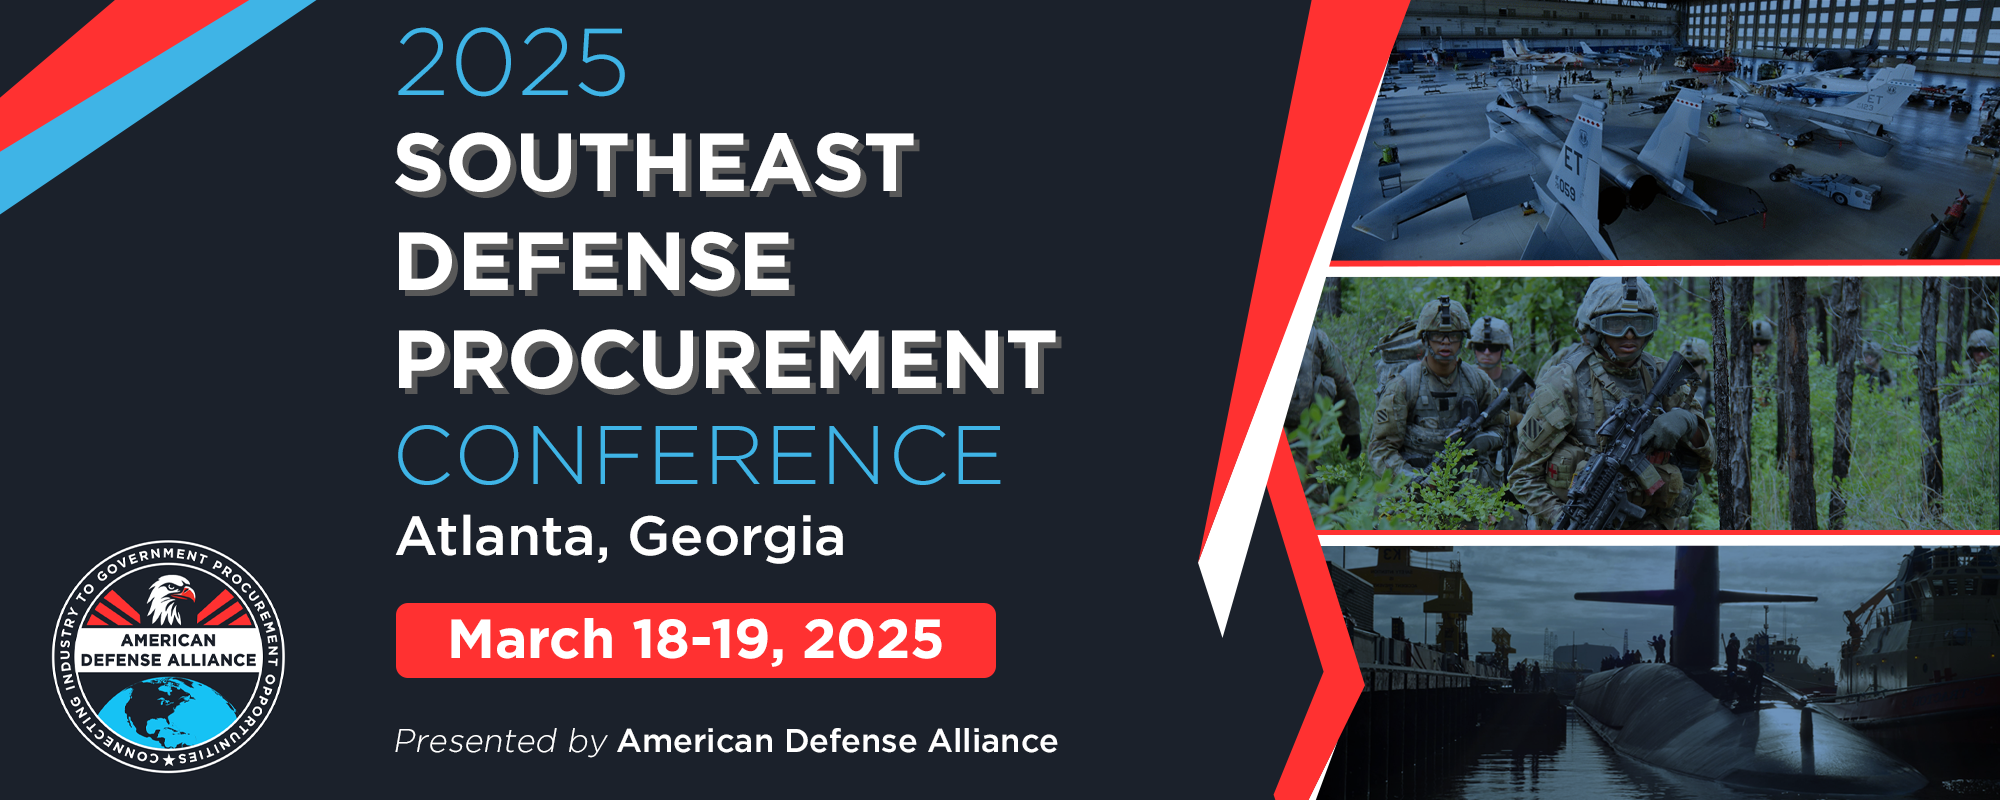
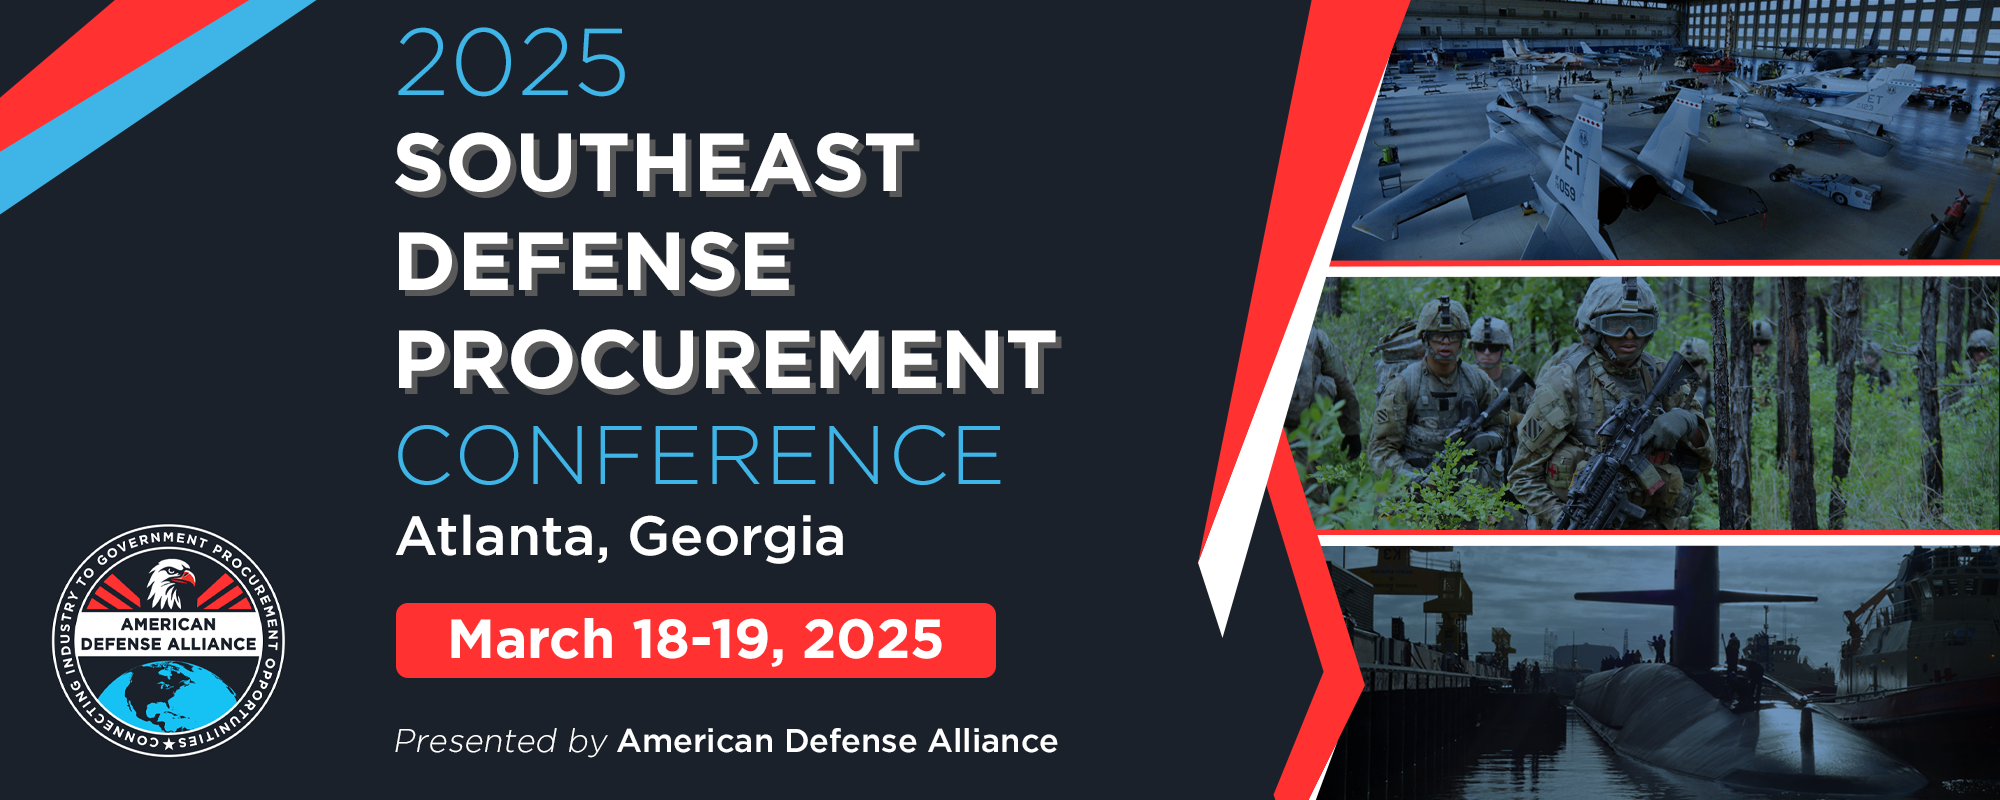
Text updates & event image update

Changed region(s): [[0.031, 0.6562, 0.155, 0.9688]]

diff --git a/src/constants/events.tsx b/src/constants/events.tsx
@@ -7,7 +7,7 @@ export const EVENTS = [
     id: 1,
     title: "2025 Defense Industry Forecast",
     date: "November 14th, 2024",
-    timeStart: "2024-11-14T14:00:00Z",
+    timeStart: "2024-11-14T12:00:00Z",
     description: "The 2025 Defense Industry Forecast will provide actionable business intelligence on upcoming acquisition opportunities — covering Defense Dept. and Combat Command mission priorities — Army, Navy, Air Force, Marine Corps, Space Force and Coast Guard — focused on all major sectors from advanced IT, AI and Cyber, all-domain command & control, and weapons system development & sustainment, to logistics & transport, facility management, Military base building design & construction, energy resiliency and environmental remediation, to new Government-Private Sector collaborations in critical infrastructure security, U.S. manufacturing base revitalization, ship building and shipyard modernization, Space defense and other major initiatives.",
     eventText: (
       <div className="max-container font-light">
@@ -117,8 +117,8 @@ export const EVENTS = [
   {
     id: 2,
     title: "2025 Southeast Defense Procurement Conference",
-    date: "March 18th - 19th, 2025",
-    timeStart: "2025-03-18T14:30:00Z", // TODO: change to actual time
+    date: "March 18th-19th, 2025",
+    timeStart: "2025-03-18T11:30:00Z", // TODO: change to actual time
     description: "Join us for the 2025 Southeast Defense Procurement Conference on March 18-19, 2025 in Atlanta, Georgia — a pivotal event designed to empower businesses with crucial insights into Defense Procurement across the Southeastern United States, from North Carolina to Mississippi. This event will spotlight current and future purchasing requirements and contracting opportunities that can empower your business to new levels of success.",
     eventText: (
       <div className="max-container font-light">
@@ -155,7 +155,7 @@ export const EVENTS = [
       </div>
     ),
     topicalCoverage: [
-      { tagline: "Defense Acquisition Priorities", description: " Understand the Latest Acquisition Strategies from the Department of Defense, Service, and Combat Commands" },
+      { tagline: "Defense Acquisition Priorities", description: "Understand the Latest Acquisition Strategies from the Department of Defense, Service Components, and Combat Commands" },
       // { tagline: "Small Business Contracting Programs", description: "Learn about Initiatives that Support Small Businesses in Defense Contracting" },
       { tagline: "Subcontracting and Teaming Opportunities", description: " Connect with Prime Defense Contractors to Explore Collaborative Ventures" },
       { tagline: "Innovative Technology Solutions", description: " Discover Accelerated Contracting Opportunities through DARPA, DIU, and DEFENSEWERX" },

diff --git a/src/app/components/UpcomingEvents.tsx b/src/app/components/UpcomingEvents.tsx
@@ -10,9 +10,9 @@ const UpcomingEvents = () => {
       <h2 className="text-center font-gotham font-bold text-[36px] md:text-[64px] text-slate-900 sm:px-16 px-6">
         Don't miss our upcoming events!
       </h2>
-      <h3 className="text-center font-gotham font-semibold text-[20px] md:text-[28px] text-slate-900 sm:px-16 px-6 mb-8">
+      {/* <h3 className="text-center font-gotham font-semibold text-[20px] md:text-[28px] text-slate-900 sm:px-16 px-6 mb-8">
         We host events nationwide, so stay tuned for an event coming near you!
-      </h3>
+      </h3> */}
       <p className="text-center text-slate-600 text-xl mb-12 max-w-3xl mx-2">
         Join us for industry-leading conferences and networking opportunities. Discover the latest in defense technology and procurement strategies.
       </p>
